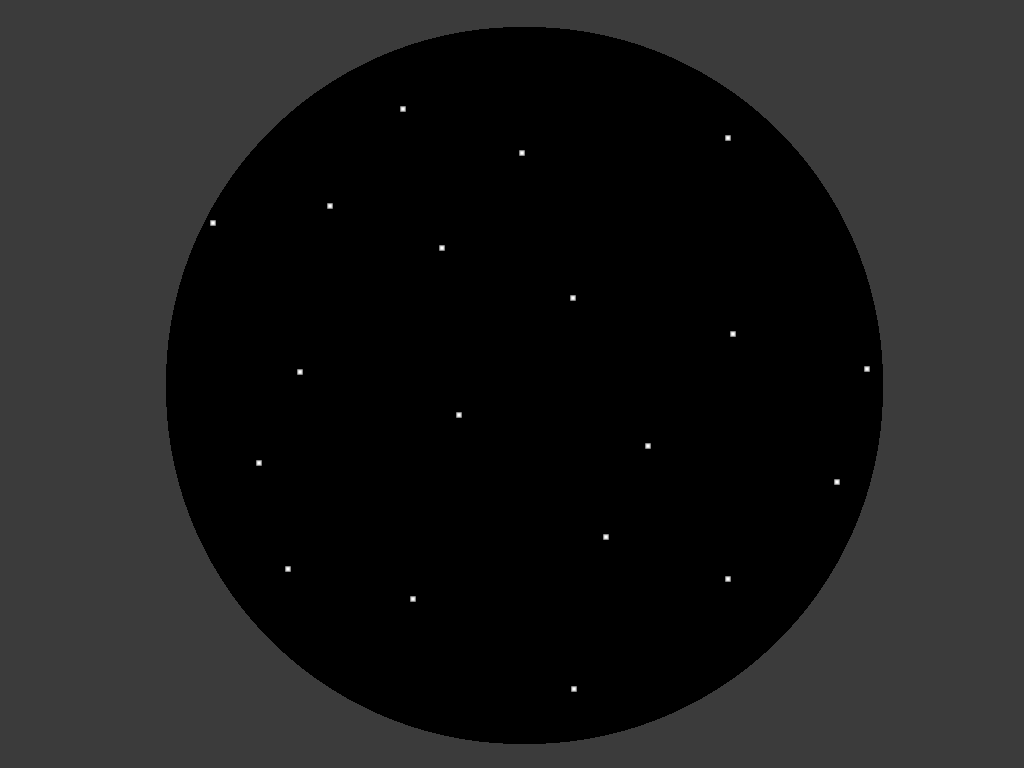
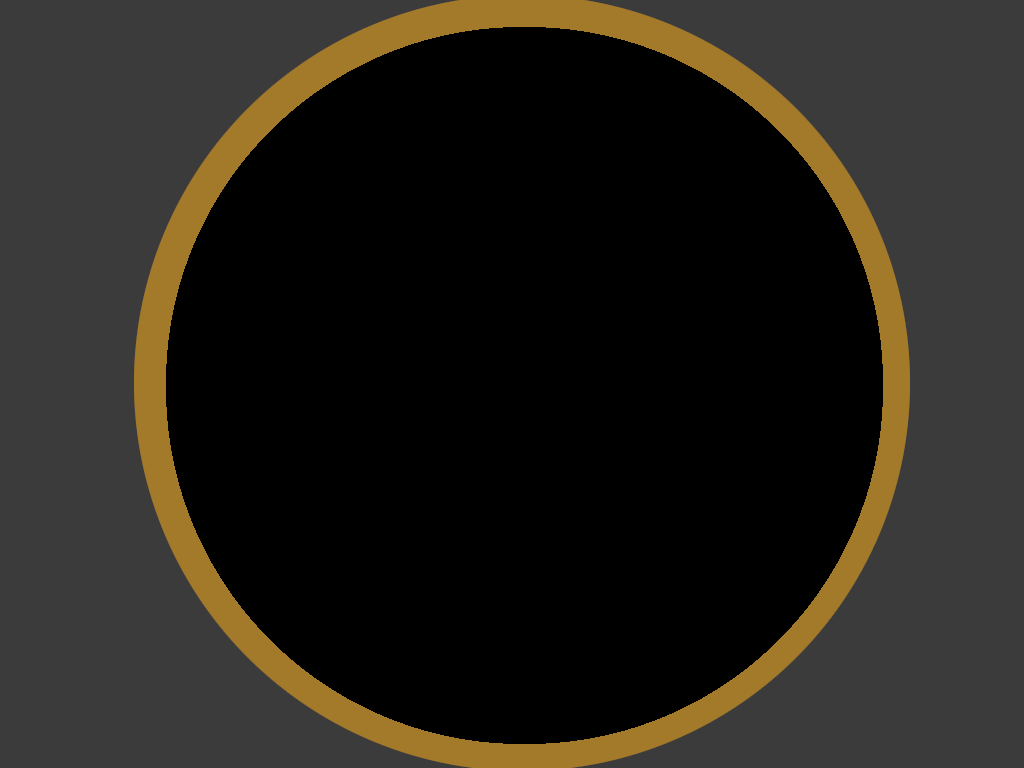
Added stars and star glow, plus new scene for telescope

Changed region(s): [[0.125, 0.0, 0.9062, 1.0]]

diff --git a/src/scenes/Telescope.js b/src/scenes/Telescope.js
@@ -1,0 +1,37 @@
+import { Scene } from 'phaser';
+import Util from '../util';
+
+export class Telescope extends Scene
+{
+    constructor ()
+    {
+        super('Telescope');
+    }
+
+    create ()
+    {
+        this.add.image(512, 384, 'starfield');
+        this.add.image(512, 384, 'star').setInteractive()
+        .on('pointerdown', () => {
+            this.add.image(512,384, 'starGlow')
+        });;
+
+        this.stars = this.add.group({
+            key: 'star',
+            repeat: 11,
+            setXY: { x: 200, y: 300, stepX: 70 }
+        });
+
+
+        this.add.text(20, 20, 'Back', {
+            fontFamily: 'Arial Black', fontSize: 64, color: Util.colours.WHITE,
+            stroke: '#000000', strokeThickness: 8,
+            align: 'center'
+        }).setInteractive()
+        .on('pointerdown', () => {
+
+            this.scene.start('Game');
+
+        });
+    }
+}

diff --git a/src/scenes/Game.js b/src/scenes/Game.js
@@ -13,7 +13,6 @@ export class Game extends Scene
             "bookshelf-1":[146,271],
             "bookshelf-2":[357,295],
             "owl-perch":[930,429],
-            "telescope":[744,275],
             "table":[727,709]
         };
     }
@@ -32,6 +31,10 @@ export class Game extends Scene
             // });
             this.add.existing(s);
         }
+
+        this.telescope = this.add.image(744, 275, 'telescope')
+            .setInteractive()
+            .on('pointerdown', () => this.showStarfield());
 
         this.player = new Player(this, 256, 384, 'wizard');
         this.anims.create({
@@ -57,5 +60,9 @@ export class Game extends Scene
 
     update() {
         this.player.update();
+    }
+
+    showStarfield() {
+        this.scene.start('Telescope');
     }
 }

diff --git a/src/main.js b/src/main.js
@@ -4,6 +4,7 @@ import { OverlayDemo } from './scenes/OverlayDemo';
 import { GameOver } from './scenes/GameOver';
 import { MainMenu } from './scenes/MainMenu';
 import { Preloader } from './scenes/Preloader';
+import { Telescope } from './scenes/Telescope';
 
 //  Find out more information about the Game Config at:
 //  https://newdocs.phaser.io/docs/3.70.0/Phaser.Types.Core.GameConfig
@@ -23,6 +24,7 @@ const config = {
         MainMenu,
         OverlayDemo,
         Game,
+        Telescope,
         GameOver
     ]
 };

diff --git a/src/scenes/Preloader.js b/src/scenes/Preloader.js
@@ -41,6 +41,10 @@ export class Preloader extends Scene
         this.load.image('table', 'table.png');
         this.load.image('telescope', 'telescope.png');
         this.load.image('hidden-text', 'hidden-text.png');
+        this.load.image('starfield', 'stars.png');
+        this.load.image('star', 'star.png');
+        this.load.image('starGlow', 'starGlow.png');
+
     }
 
     create ()
